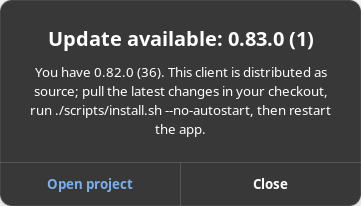
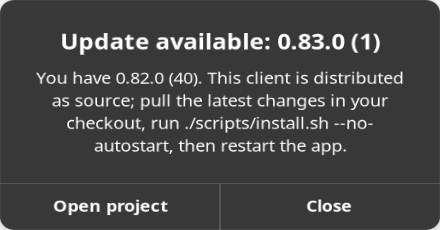
Record B08 merge and B12 integrated verification

diff --git a/docs/rust-migration/AUDIT.md b/docs/rust-migration/AUDIT.md
@@ -1153,7 +1153,37 @@ future models must verify the linked PR's status rather than trusting a stale
   Arabic-Indic/fullwidth numeric comparison; superscript digits pass Python
   `isdigit()` but fail `int()` and return a sanitized invalid-marker error.
   The Python reference parser is unchanged.
-- **Status:** no B12 PR exists. Prior B12 checks predate B08 integration; the
-  integrated tree still requires full checks and loopback-fixture GTK smoke.
-- **Next:** verify metadata and combined source, run required checks and fixture
-  smoke, then report readiness to orchestration before opening the PR.
+- **Status at integration:** no B12 PR existed; integrated checks were pending
+  and are recorded in E051.
+- **Next:** report verified readiness to orchestration, then open the focused
+  screenshot-bearing PR.
+
+### E051 — 2026-10-30: B12 integrated verification on build 40
+
+- **Source/base:** B12 commit `1968d1f` is based on B08 merge
+  `9d272fd810912133d0e42f35238dee1fc5e12a30`. `VERSION`,
+  `codexbar_gtk/version.py`, README and CHANGELOG agree on `0.82.0 (40)`.
+- **Rust checks:** rustfmt checks passed for core, Python bridge and backend;
+  locked tests passed with 68 core and 14 backend tests; Clippy with all targets
+  and features and `-D warnings` passed for all three crates; the atomic Rust
+  extension build passed.
+- **Python and D-Bus checks:** default Python suite passed 174 tests with 2
+  expected Rust-opt-in-only skips; Rust-opt-in suite passed all 174 tests; all
+  3 tray D-Bus tests passed. `git diff --check` passed.
+- **GTK runtime smoke:** with Rust opt-in and an isolated temporary HOME, a
+  loopback-only HTTP fixture served `0.83.0 (1)`. The Rust update service
+  compared it with current `0.82.0 (40)`, and the typed available result passed
+  through `CodexBarApp._finish_update_check` into an actual Adw message dialog.
+  The heading was asserted and the refreshed screenshot
+  `docs/rust-migration/screenshots/b12-update-synthetic.png` was visually
+  inspected. Nonfatal EGL render-device permission, missing accessibility-bus,
+  and no-transient-parent GTK warnings appeared. No external network, account,
+  provider data, or credentials were used.
+- **Status:** B12 implementation and local verification are ready for PR; no
+  PR or GitHub CI result is claimed. The existing B08 checks belong to B08's
+  exact head only. Root checkout's uncommitted drafts remain untouched.
+- **Next:** notify orchestration before opening the screenshot-bearing PR, then
+  verify fresh PR head, reviews, mergeability, required checks and current main
+  before any merge. If GitHub Actions remains degraded, rely only on equivalent
+  passing local checks and GitHub's normal merge permission; do not bypass or
+  describe pending GitHub checks as passed.

diff --git a/docs/rust-migration/TASKS.md b/docs/rust-migration/TASKS.md
@@ -17,8 +17,8 @@ history. A checked box means **verified and merged**, not merely implemented.
 | Active task | **B12** — public VERSION parser/comparison and bounded HTTP check; branch `orchestrated/luna-b12`, build `0.82.0 (40)` |
 | Next domain slice | B12 is rebased on merged B08 main; rerun checks and GTK fixture smoke, then open the focused screenshot-bearing PR after orchestration coordination. |
 | Open external blockers | None known; observe required PR checks and serialized merge slot before merge. |
-| Latest checks | B08 merge was verified on PR #40 run `41102664352`; B12's pre-rebase checks passed, and refreshed-main verification is pending (see AUDIT E049–E050). |
-| UI validation | B08's four-event synthetic GTK smoke and screenshot are recorded in E049. B12's update dialog screenshot: [b12-update-synthetic.png](screenshots/b12-update-synthetic.png); refreshed-main smoke pending. |
+| Latest checks | B08 merge verified on PR #40 run `41102664352`; B12 on refreshed main: 68 core + 14 backend Rust tests, format/Clippy all crates, extension build, 174 Python tests per mode (2 expected skips default), 3 tray D-Bus tests; all passed (AUDIT E051). |
+| UI validation | B08's four-event synthetic GTK smoke and screenshot are recorded in E049. B12's refreshed Rust loopback-to-dialog smoke passed; updated screenshot: [b12-update-synthetic.png](screenshots/b12-update-synthetic.png), see E051. |
 
 **First commands for a new model/session:**
 
@@ -214,8 +214,8 @@ superscript digits that pass `isdigit()` but fail `int()` produce a sanitized
 invalid-marker result. The Python reference remains unchanged.
 
 The rebase retained B08's notification event channel, policies, and bridge
-adapter while adding B12's update module and PyO3 adapter. B12's previous checks
-were on the pre-B08 base; fresh full checks and loopback-fixture GTK smoke are
-pending. Root-checkout drafts remain untouched. Next: finish verification,
-record exact results, notify orchestration, then open/link the screenshot-bearing
-PR. Merge only after a fresh state check and normal GitHub merge conditions.
+adapter while adding B12's update module and PyO3 adapter. The integrated checks
+and loopback-fixture GTK smoke passed (AUDIT E051); root-checkout drafts remain
+untouched. No B12 PR exists yet. Next: notify orchestration, then open/link the
+screenshot-bearing PR. Merge only after a fresh state check and normal GitHub
+merge conditions.
